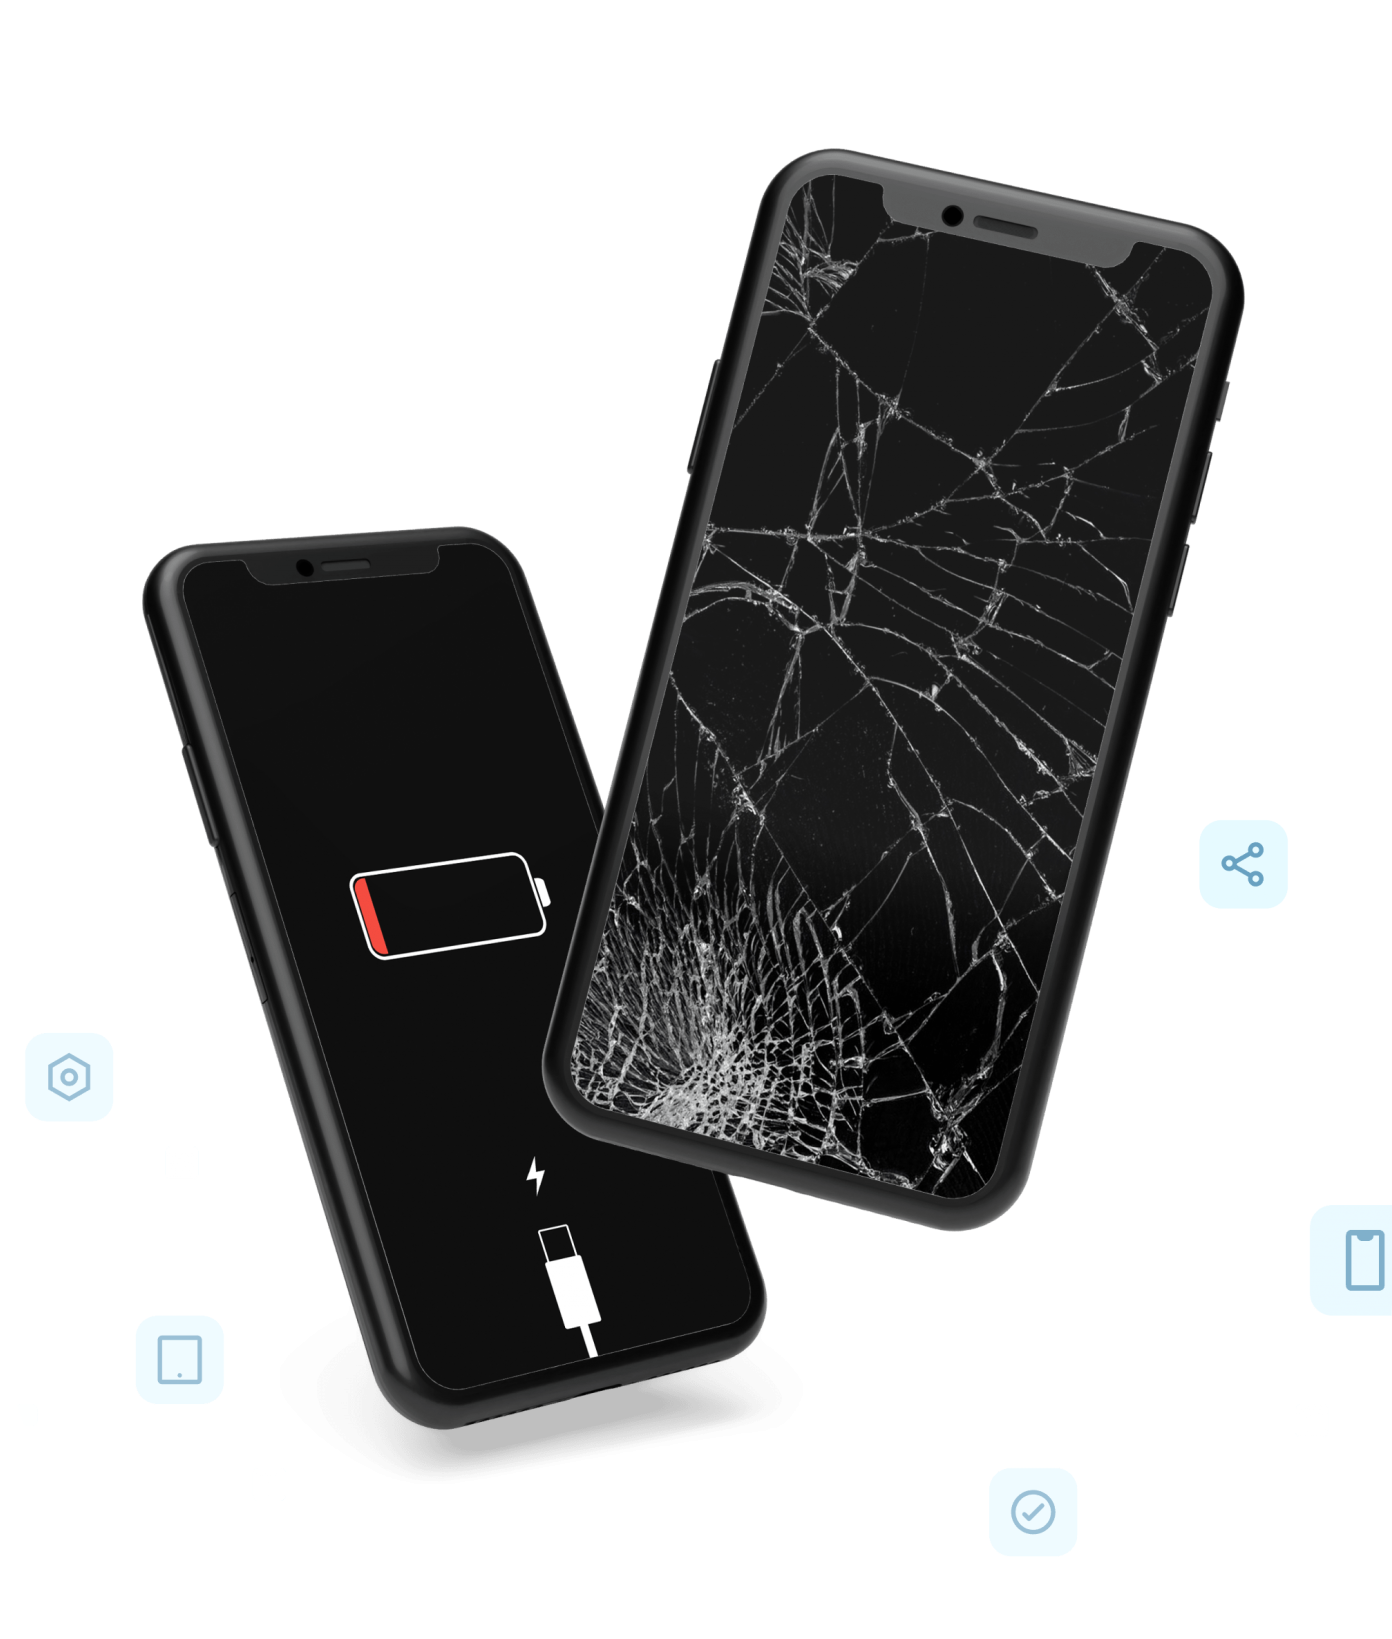
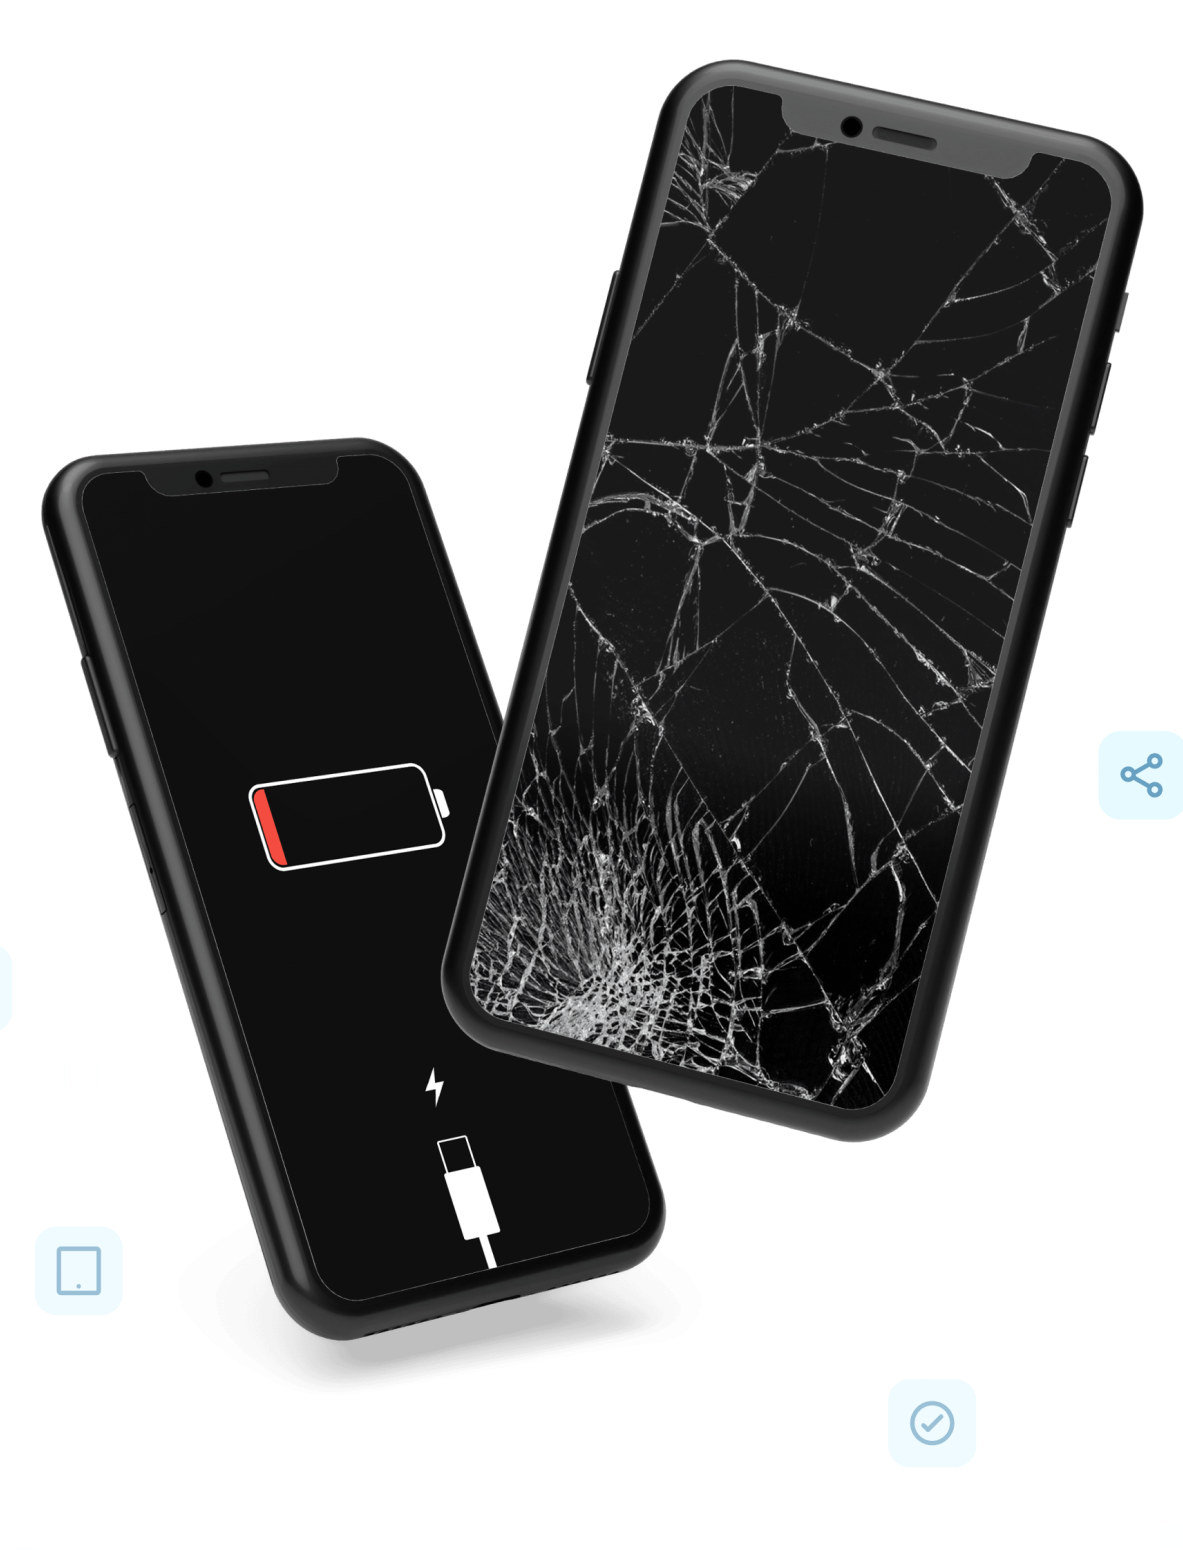
Index Responsive Final

diff --git a/index.html b/index.html
@@ -59,15 +59,15 @@
     <main>
         <section>
             <div class="container">
-                <div class="row">
+                <div class="row  ">
 
-                    <div class=" col-12 col-lg-6 d-flex justify-content-center align-items-start order-lg-last">
+                    <div class=" col-12 col-lg-6 d-flex justify-content-center align-items-start order-lg-last ">
                         <img class="foto_portada" src="./img/index1.png" alt="iphone roto">
                     </div>
 
                     <div
-                        class="col-12 col-lg-6 d-flex flex-column justify-content-center align-items-center align-items-lg-start">
-                        <h1 class="display-5 fw-bold">Repará tu iPhone</h1>
+                        class="portada_texto col-12 col-lg-6 d-flex flex-column justify-content-center align-items-center align-items-lg-start">
+                        <h1 class="display-3 fw-bold">Repará tu iPhone</h1>
                         <p class="h3 text-start ">En 30 minutos. <br> 6 meses de garantía. <br> Cuotas sin
                             interes.</p>
                         <button type="button" class=" btn btn-primary mt-4 p-4"
@@ -94,25 +94,28 @@
 
 
 
-        <section>
+        <section class="pb-5">
             <div class="title_pag2">
                 <h2 class="fw-bold text-center pt-5">¿Falla tu dispositivo iPhone?</h2>
                 <h3 class="text-center pb-5">Estamos acá para ayudarte.</h3>
                 <div class="container">
                     <div class="row pt-1">
-                        <div class="col-12 col-lg-6 flex-lg-row d-flex flex-column justify-content-center align-items-center gap-3 ">
+                        <div
+                            class="col-12 col-lg-6 d-flex flex-column justify-content-center align-items-center  gap-3 ">
                             <img class="time_icon" src="./img/time.png" alt="tiempo">
                             <div class="time">
-                                <h2 class="fs-3 ">Reparación Express</h2>
-                                <p>En menos de 30 minutos <br> salvamos tu iPhone sin <br> necesidad de pedir turno.
+                                <h2 class="fs-3 fw-bold">Reparación Express</h2>
+                                <p class="fs-5  ">En menos de 30 minutos <br> salvamos tu iPhone sin <br> necesidad de
+                                    pedir turno.
                                 </p>
                             </div>
                         </div>
-                        <div class="col-12 col-lg-6 flex-lg-row d-flex flex-column align-items-center pt-4 gap-3">
+                        <div class="col-12 col-lg-6 d-flex flex-column justify-content-center align-items-center gap-3">
                             <img class="warranty_icon" src="./img/warranty.png" alt="garantia">
                             <div class="warranty">
-                                <h2 class="fs-3 ">Garantia de 90 dias</h2>
-                                <p>Ofrecemos garantía para todos <br> nuestros trabajos para tu <br> tranquilidad y
+                                <h2 class="fs-3 fw-bold">Garantia de 90 dias</h2>
+                                <p class="fs-5  ">Ofrecemos garantía para todos <br> nuestros trabajos para tu <br>
+                                    tranquilidad y
                                     comodidad.</p>
                             </div>
                         </div>
@@ -120,34 +123,30 @@
                     <div class="container">
                         <div class="row pt-4">
                             <div
-                                class="col-12 col-lg-6 flex-lg-row d-flex flex-column justify-content-center align-items-center gap-3  ">
+                                class="col-12 col-lg-6 d-flex flex-column justify-content-center align-items-center gap-3  ">
                                 <img class="lab_icon" src="./img/lab.png" alt="lab">
                                 <div class="lab pe-4">
-                                    <h2 class="fs-3 ">Laboratorio Nivel 3</h2>
-                                    <p>Contamos con un laboratorio <br> de electronica con lo ultimo en <br>
-                                        equipamiento y
-                                        tecnologia.
+                                    <h2 class="fs-3 fw-bold">Laboratorio Nivel 3</h2>
+                                    <p class="fs-5  ">Contamos con laboratorio <br> de la ultima tecnologia.
                                     </p>
                                 </div>
                             </div>
-                            <div class="col-12 col-lg-6 flex-lg-row d-flex flex-column align-items-center  pt-4 gap-3">
+                            <div
+                                class="col-12 col-lg-6 d-flex flex-column justify-content-center align-items-center  gap-3">
                                 <img class="chat_icon" src="./img/chat.png" alt="chat">
                                 <div class="chat">
-                                    <h2 class="fs-3 ">Asistencia Online</h2>
-                                    <p>Podes chatear con nosotros 24/7.</p>
+                                    <h2 class="fs-3 fw-bold">Asistencia Online</h2>
+                                    <p class="fs-5  ">Podes chatear con nosotros 24/7. <br> Consulta por tu reparacion
+                                        <br> Sacate cualquier duda!
+                                    </p>
                                 </div>
                             </div>
                         </div>
                     </div>
-
-
-                    <div class="d-flex flex-column">
-                        <h2 class="fw-bold text-center pt-4">¿Tenés alguna duda?</h2>
-                        <p class="text-center">Si aún no te convenciste de que phoneFix es la mejor opción para reparar
-                            tu iPhone. <br> ¡Tranqui!
-                            Escribinos y te asesoramos al instante.</p>
-                    </div>
         </section>
+
+
+
 
 
         <footer class="footer">
@@ -164,12 +163,10 @@
                 derechos reservados.<br>Argentina
                 C1428CL</div>
             <div class="redes_footer">
-                <a href="https://www.facebook.com"><img src="./img/facebklogo.png" alt="facebooklogo"
-                        class="fb_logo"></a>
+                <a href="https://www.facebook.com"><img src="./img/facebklogo.png" alt="facebooklogo" class="fb_logo"></a>
                 <a href="https://www.instagram.com"><img src="./img/iglogo.png" alt="instagramlogo" class="ig_logo"></a>
                 <a href="https://www.tiktok.com"><img src="./img/tiktoklogo.png" alt="tiktoklogo" class="tik_logo"></a>
-                <a href="https://www.twitter.com"><img src="./img/twitterlogo.png" alt="twitterlogo"
-                        class="tw_logo"></a>
+                <a href="https://www.twitter.com"><img src="./img/twitterlogo.png" alt="twitterlogo" class="tw_logo"></a>
             </div>
 
 

diff --git a/css/style.css b/css/style.css
@@ -15,26 +15,42 @@
 }
 
 
-/* Main */
+/* Inicio Main */
 
+main {
+    background-image: url(../img/fondoindex.jpg);
+    background-size: cover;
+    background-attachment: fixed;
+}
 
 
 .foto_portada {
-    width: 25rem;
-    padding-left: 2rem;
-    padding-right: 2rem;
+    width: 15rem;
 
 }
 
-.bg-light {
-    background-color: #123846E5;
+@media (min-width: 1000px) {
+    .foto_portada {
+        width: 20rem;
+        padding-top: 5rem;
+        margin-right: 3rem;
+    }
+    .portada_texto {
+        padding-left: 65px;
+    }
 }
+
+
 
 .btn-primary {
     background-color: #123846E5;
     border-radius: 10px;
     border-style: none;
 
+}
+
+.btn-success {
+    width: 100px;
 }
 
 
@@ -107,42 +123,7 @@
 }
 
 
-.title2_pag2 {
-    display: flex;
-    flex-direction: column;
-    align-items: center;
-    padding-top: 100px;
-}
-
-.title2_pag2 h2 {
-    font-size: 40px;
-}
-
-.title2_pag2 p {
-    font-size: 25px;
-    font-weight: 100;
-    text-align: center;
-    padding-bottom: 30px;
-}
-
-.consultar {
-
-    width: 315px;
-    height: 72px;
-    background: #123846E5;
-    border-radius: 28px;
-    display: flex;
-    justify-content: center;
-    align-items: center;
-    color: #FFFFFF;
-    font-size: 28px;
-    font-family: Helvetica, sans-serif;
-    font-weight: 500;
-    text-decoration: none;
-}
-
-
-/* fin index */
+/* Fin Main */
 
 /* Footer */
 
@@ -231,14 +212,20 @@ footer {
 
     }
 
+    .nombre_logo_footer {
+        margin-top: 0px;
+    }
+    .nombre_logo_footer h2 {
+        margin-bottom: 0px;
+    }
     .nombre_logo_footer h3 {
         display: none;
     }
 
     .redes_footer {
-        display: flex;
-        align-items: center;
         padding-bottom: 20px;
+        margin-right: 0px;
+
 
 
     }
